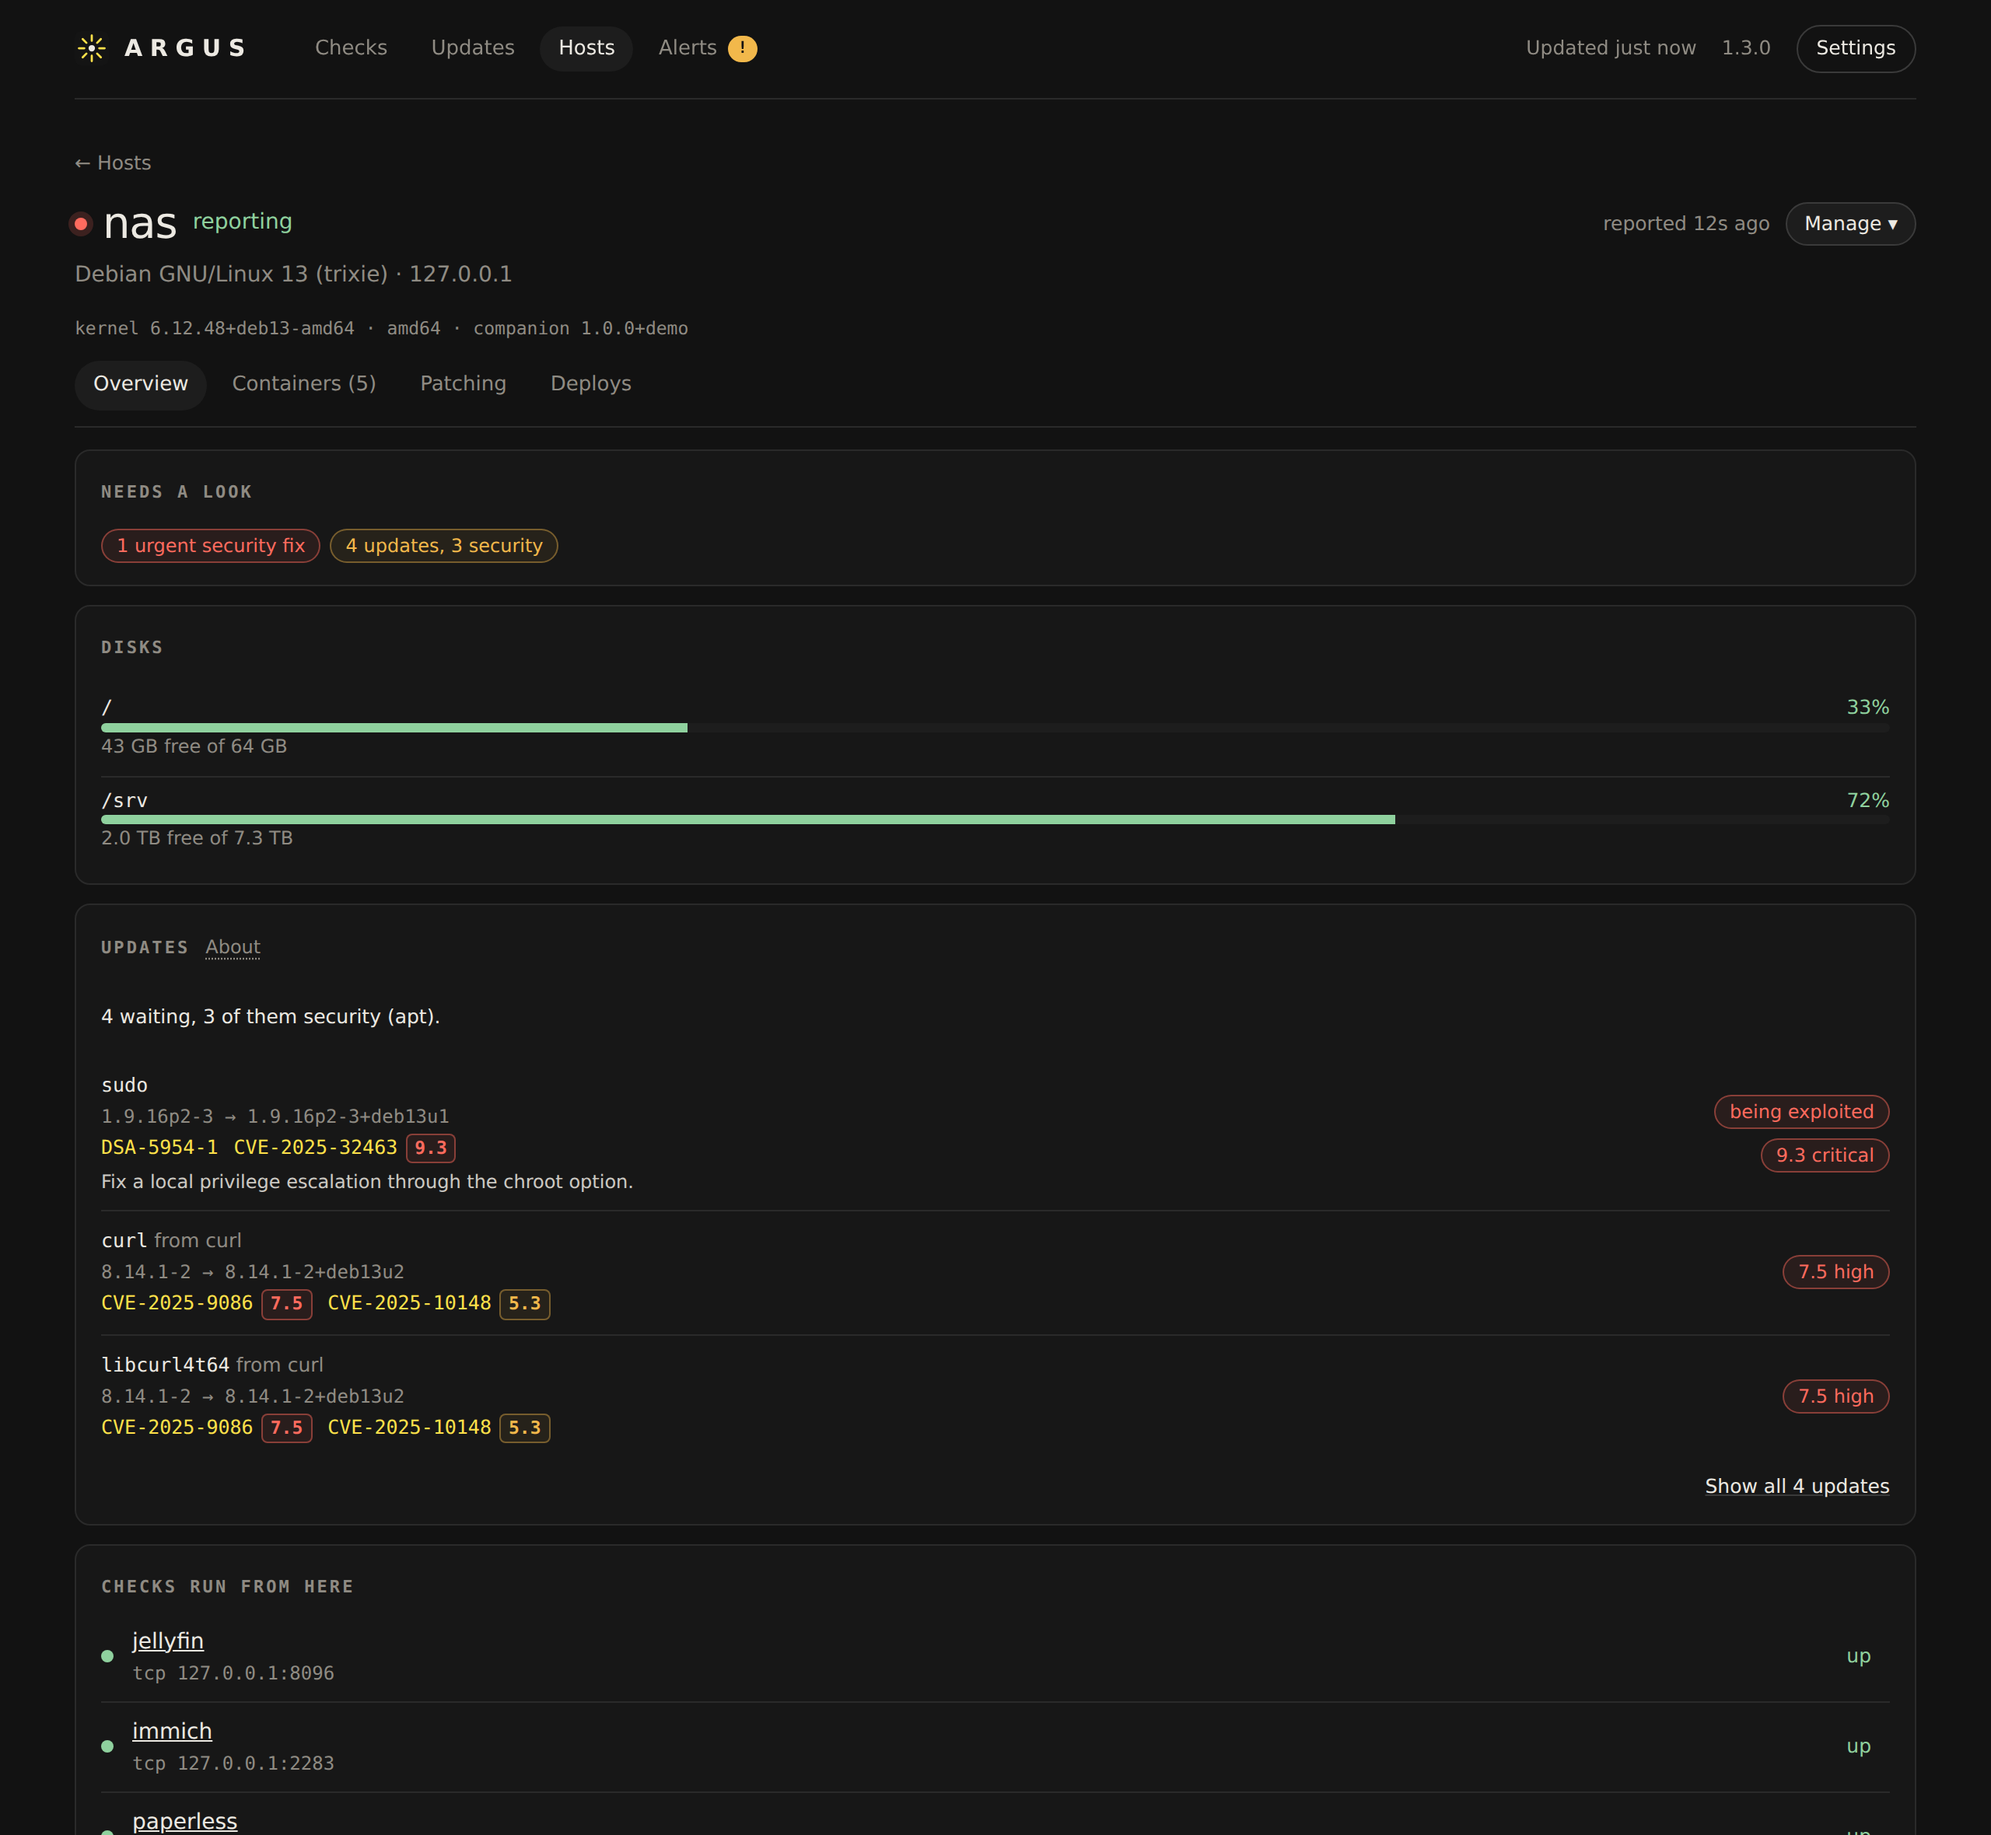
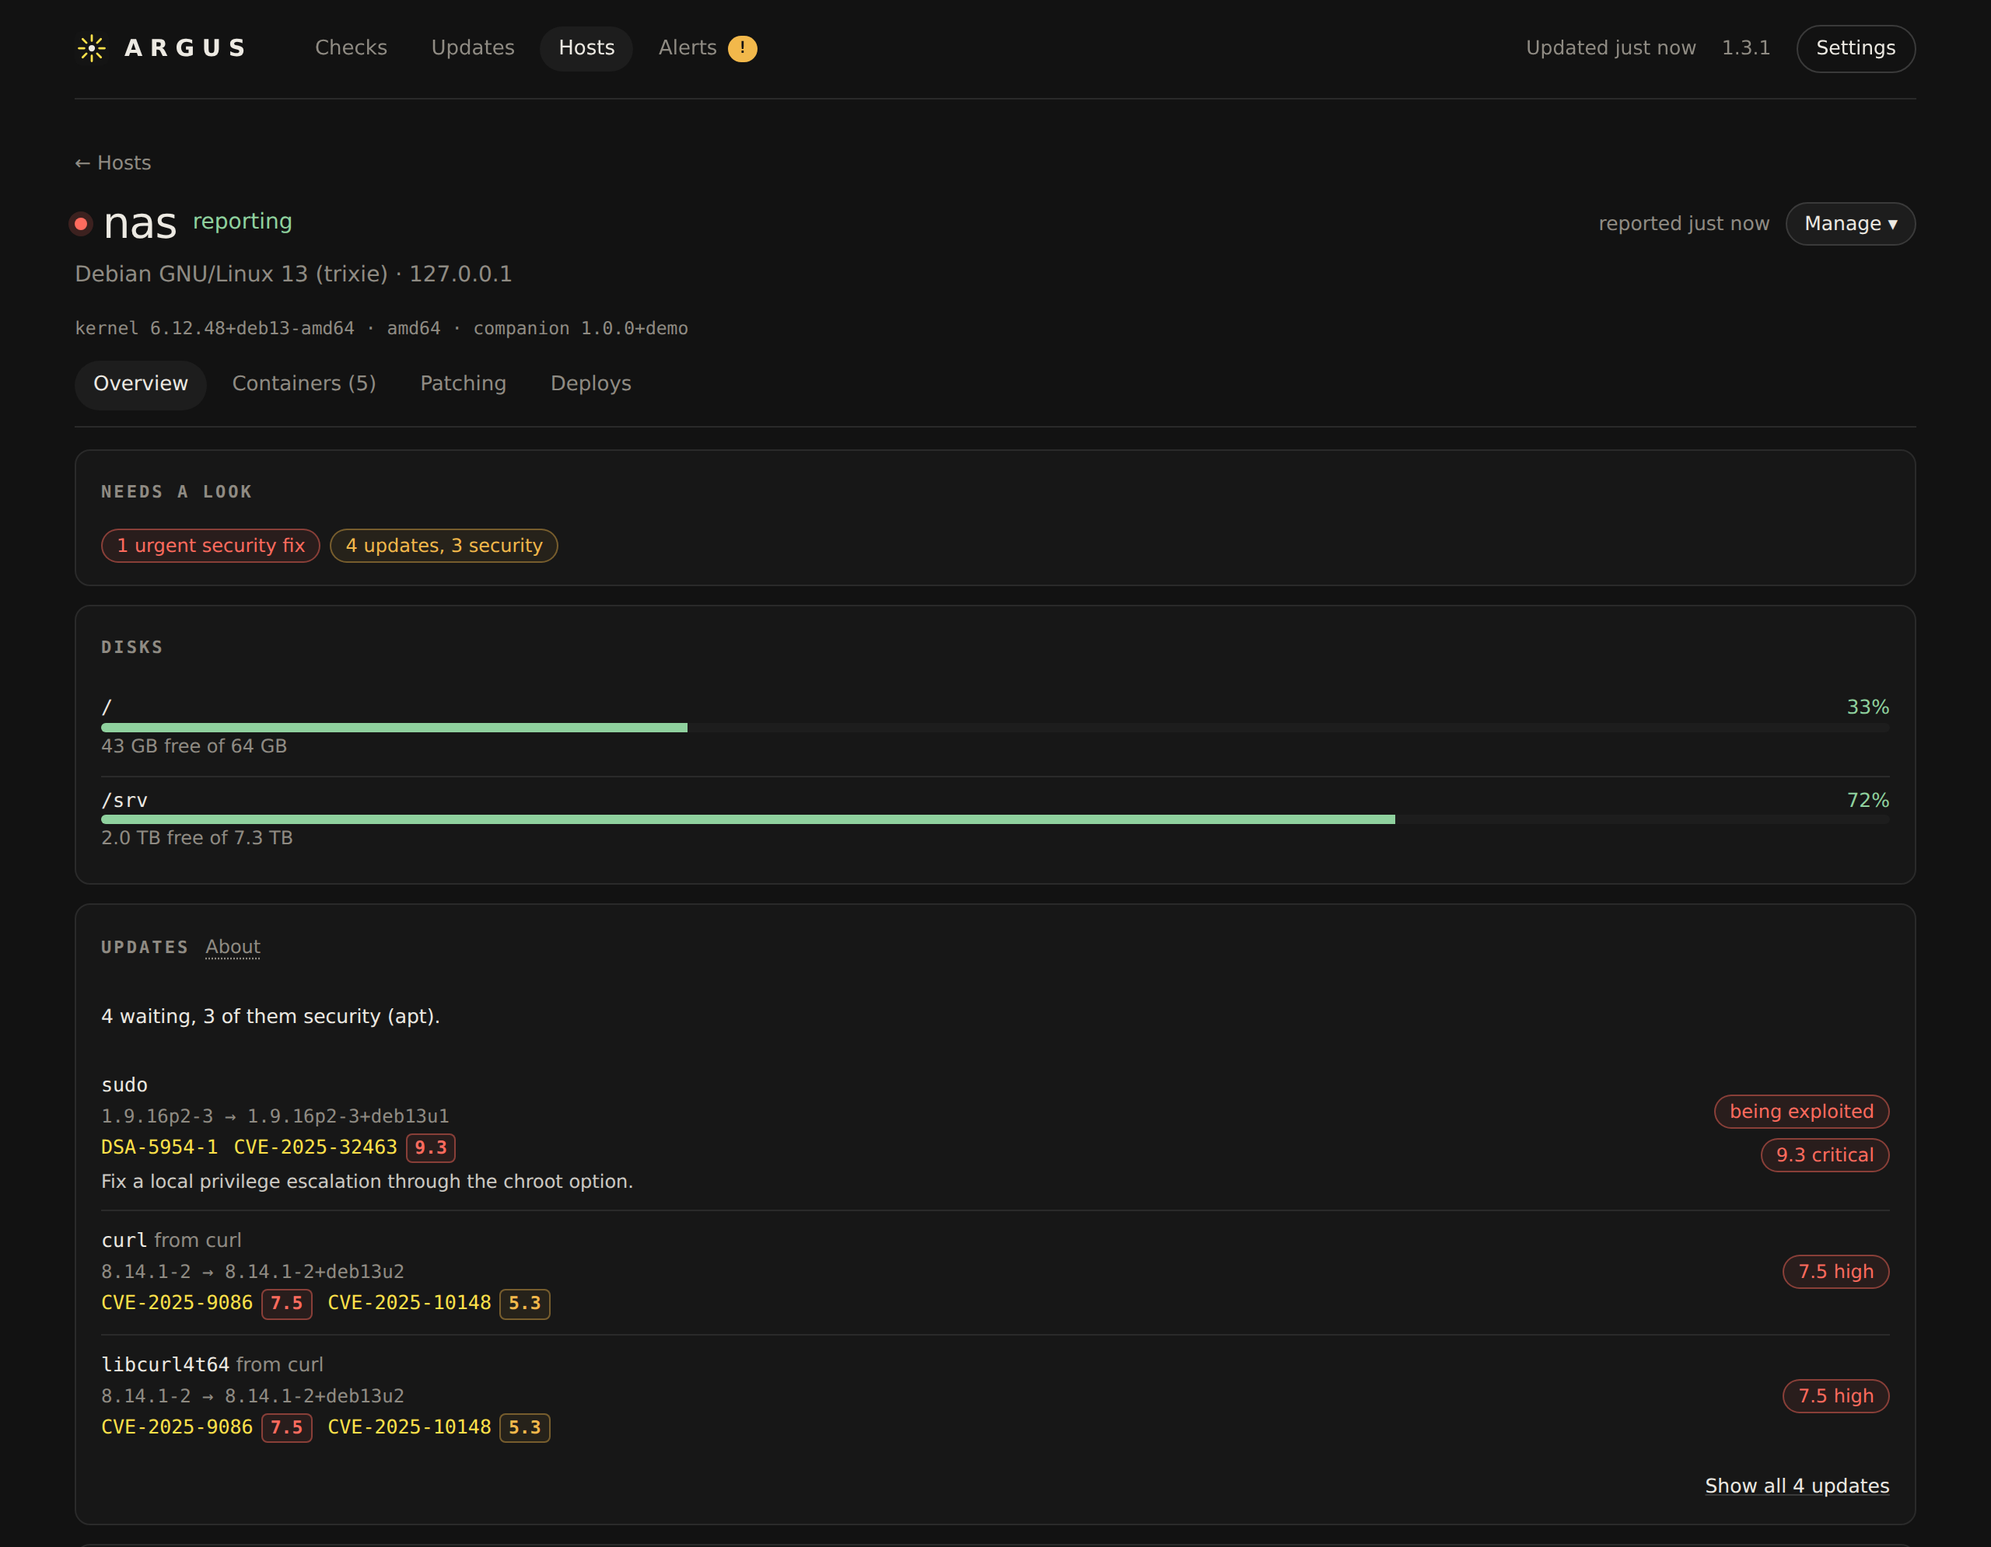
README: a look around, with seven new pictures
Claude-Session: https://claude.ai/code/session_01NaZdmEt5VCJtgF27kW7pbJ

diff --git a/README.md b/README.md
@@ -4,7 +4,7 @@
 
 Argus checks your services and alerts you when one stops answering. A small companion on each host shows its containers, disks and pending updates, patches it in a weekly window once it has a recent backup, and deploys your Compose stacks from git when you merge. No Prometheus, Grafana or Alertmanager needed, and no config files unless you want them.
 
-![The Argus home page: a ring of every check, one of them down, and the services Argus suggests watching](docs/screenshots/home.png)
+![The Argus home page: a ring of every check with one down, a line saying that nothing that alerts you is down, and the services Argus suggests watching](docs/screenshots/home.png)
 
 ## What it does
 
@@ -15,9 +15,31 @@ Argus checks your services and alerts you when one stops answering. A small comp
 - **Follows your apps' updates** on GitHub: Dependabot's PRs, CI, merges and builds, to "running on its host".
 - **Guides you in.** A new install opens on a short checklist that takes you from nothing to your first host watched, patched and deploying.
 
-![Hosts: what needs a look on each, and when it is patched](docs/screenshots/hosts.png)
+## A look around
+
+**Every host on one page**, with what needs a look on each and when it is patched. Each tag leads to its cause.
+
+![Hosts: three hosts, with tags for a container that is down, a full disk and an urgent security fix, and each host's patch day](docs/screenshots/hosts.png)
+
+**One host:** its disks and pending updates. Every CVE an update fixes carries its severity score, and a fix for a flaw that is being exploited is marked.
 
 ![One host: its disks and pending security updates, each CVE with its severity score, and one fix marked as being exploited](docs/screenshots/host.png)
+
+**Urgent fixes do not wait for the weekly window.** The host's Patching tab says what goes in tonight and why.
+
+![A host's Patching tab: all updates on Tuesdays at 03:00, and an urgent fix for sudo that Argus installs tonight](docs/screenshots/host-patching.png)
+
+**You set the rules:** a day and an hour per host, the backup it needs first, and how serious a flaw must be to go in the same night.
+
+![Hosts, Patching: each host's schedule and safety net, and the rule for urgent security fixes](docs/screenshots/patching.png)
+
+**Containers**, with a note when a registry serves a newer image under the tag one of them runs.
+
+![A host's Containers tab: five containers, one marked "newer image out"](docs/screenshots/containers.png)
+
+**On a phone** it is the same page, not a cut-down one.
+
+<img src="docs/screenshots/phone.png" width="320" alt="The Hosts page on a phone">
 
 ## Quick start
 
